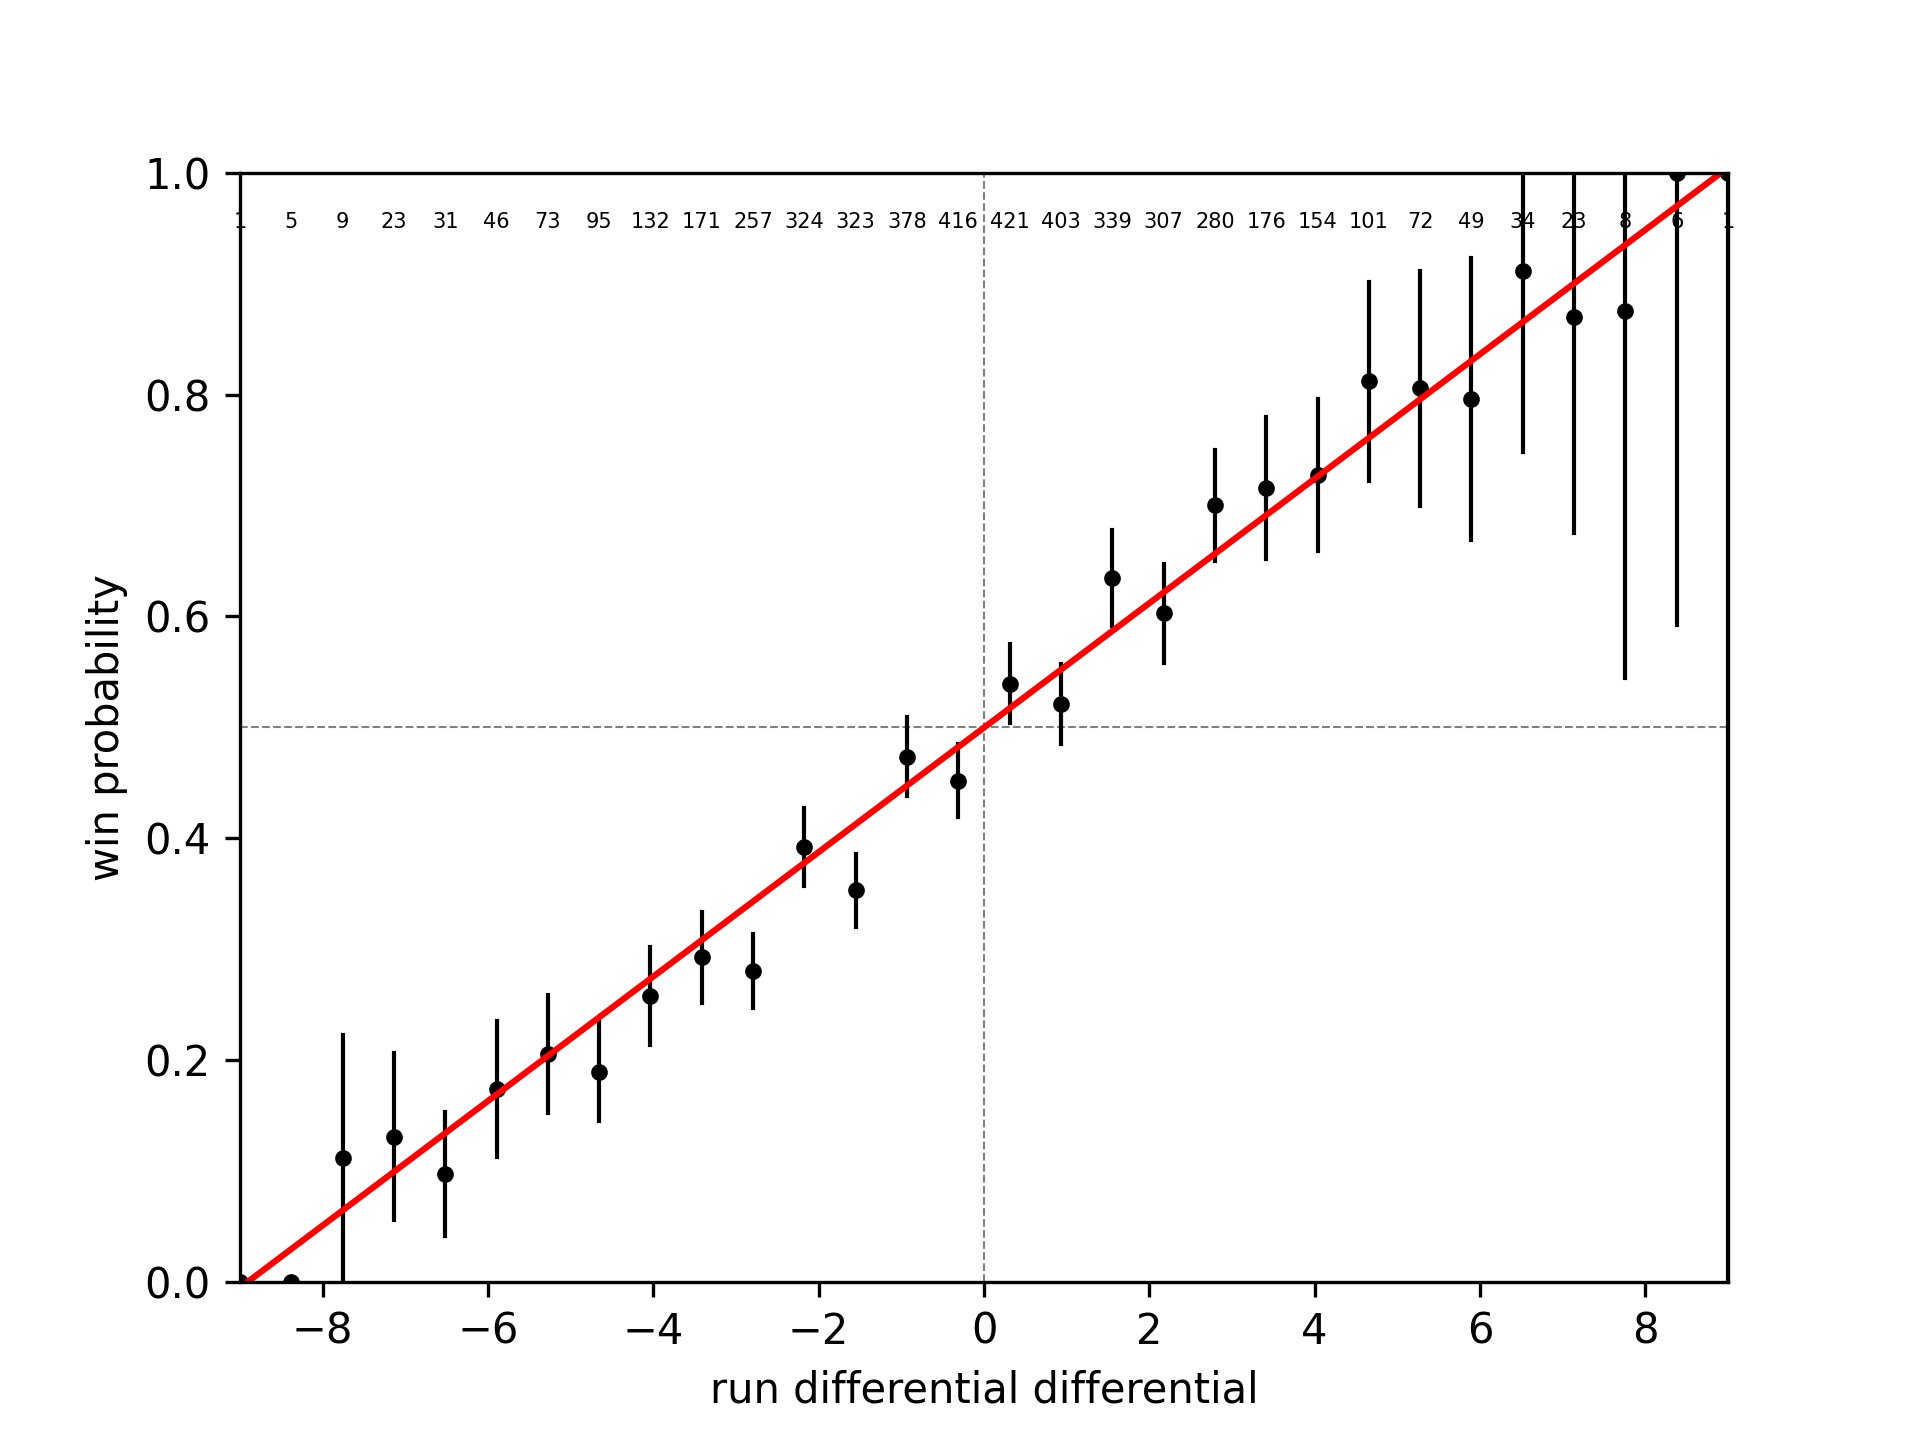
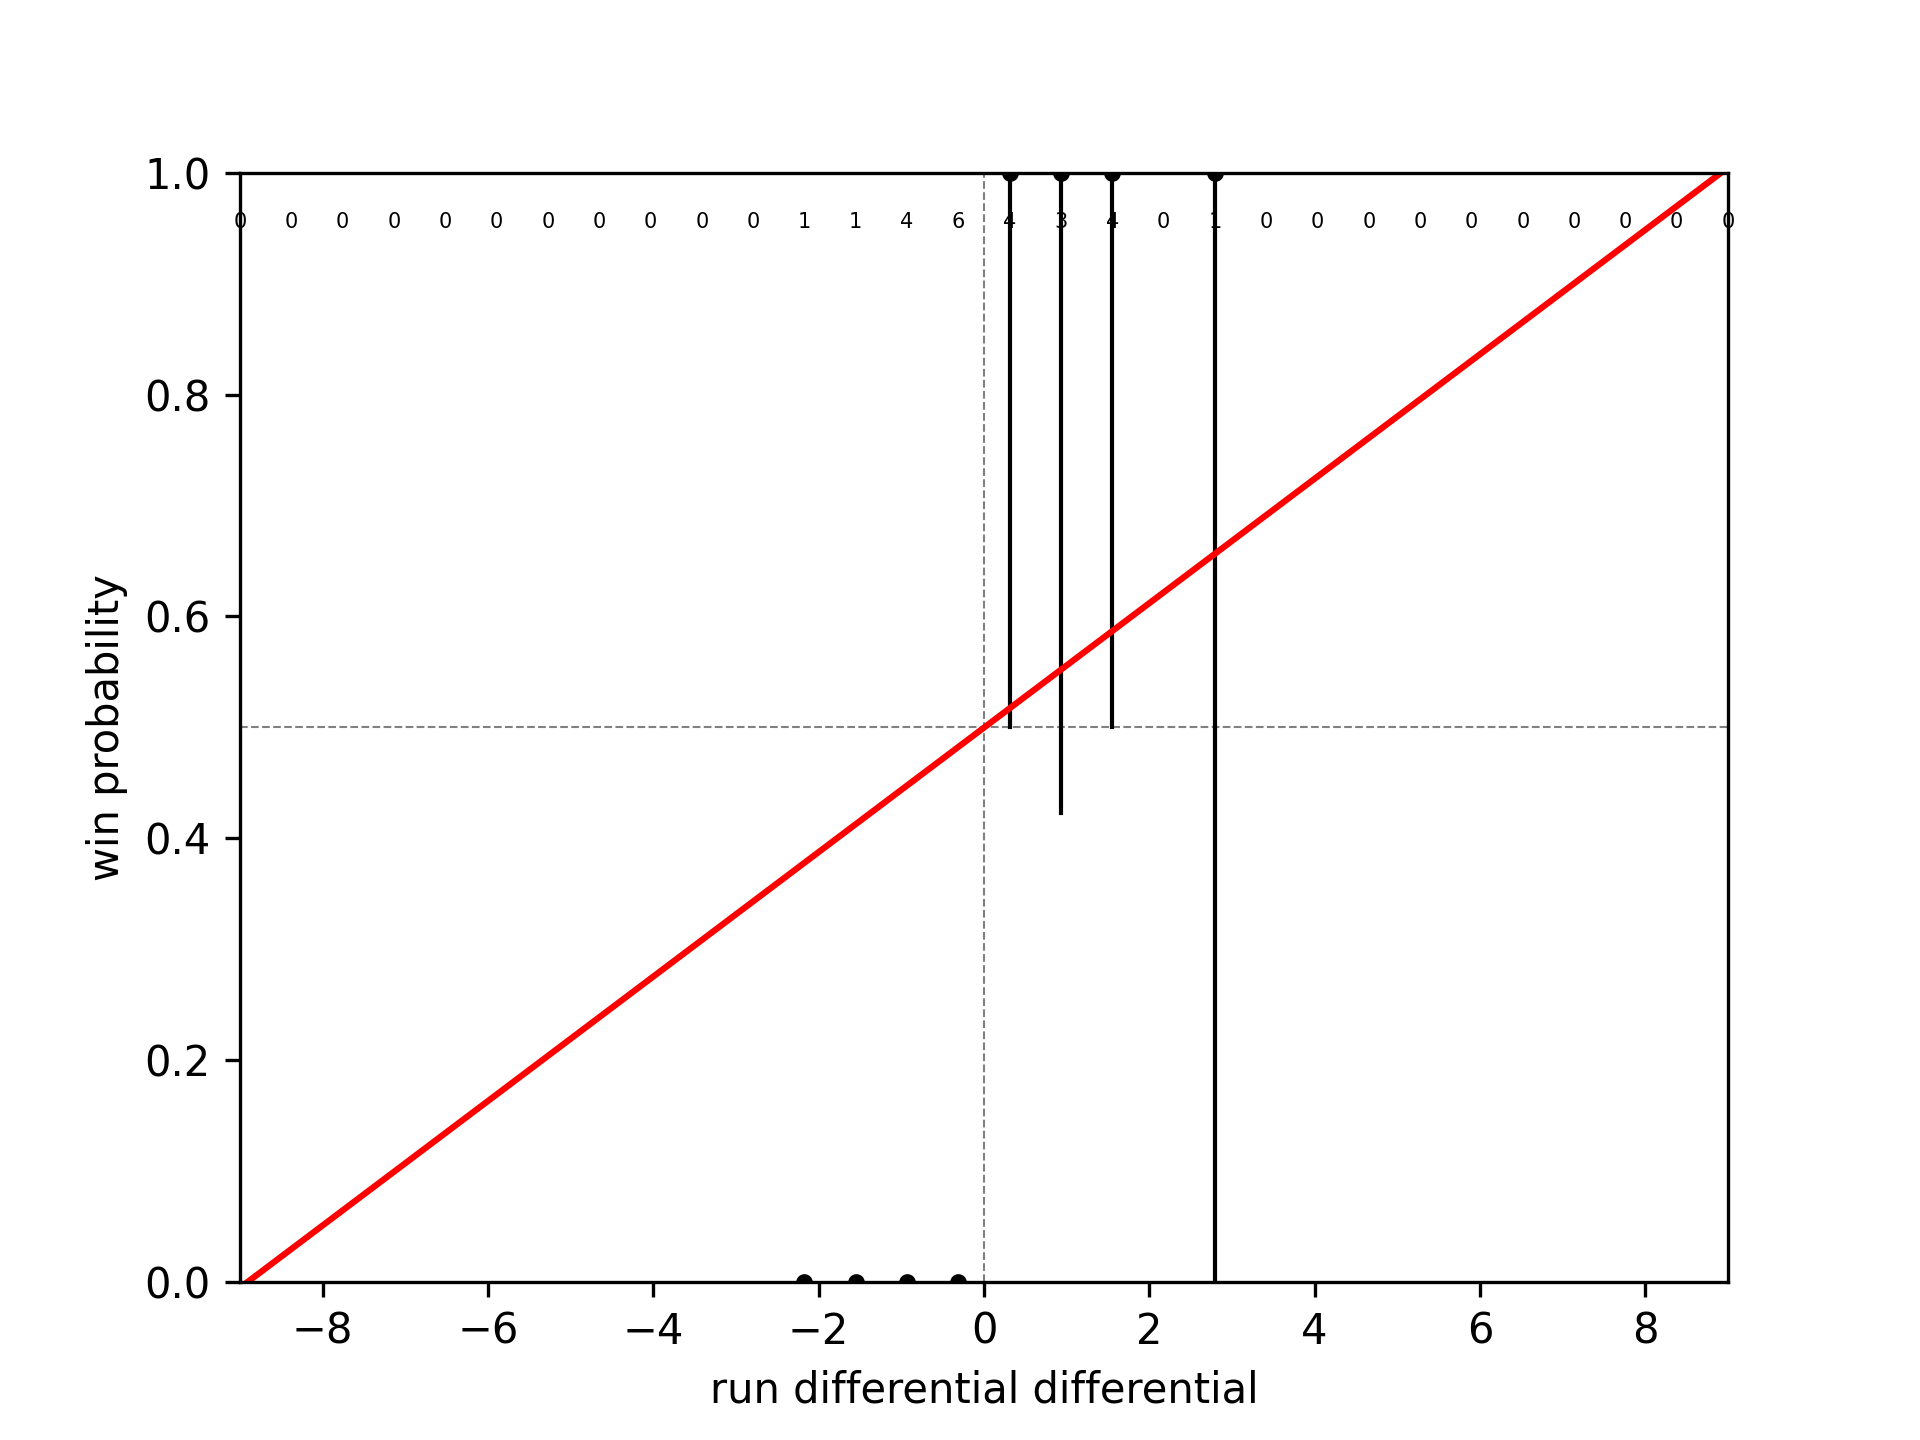
update for some small bugs

diff --git a/1outcomepredictions.py b/1outcomepredictions.py
@@ -75,6 +75,7 @@ print('date,hometeamfull,hometeamwin,hometeamscore,hometeamodds,awayteamfull,awa
 today = pd.to_datetime("today").dayofyear - 59
 today = pd.to_datetime("today").dayofyear - 54 # 2024
 today = pd.to_datetime("today").dayofyear - 52 # 2025
+today = pd.to_datetime("today").dayofyear - 51 # 2026
 yesterday = today - 1
 
 doyesterday = False
@@ -124,12 +125,14 @@ for indx in range(today,np.nanmin([today+7,maxday])):
 
         # smooth the home team's run differential
         hrundiff = np.convolve(H['rundiff'], kernel, mode='same')
-        hrunscored = np.convolve(H['runsscored'], kernel, mode='same')
+        hrunscored = np.maximum(np.convolve(H['runsscored'], kernel, mode='same'), 0) 
+        
         A = np.genfromtxt('data/{}/teams/{}.csv'.format(year,mlbteams[awayteam]),dtype=[('date', 'S10'), ('team', 'S3'), ('opponent', 'S3'), ('rundiff', '<i8'), ('runsscored', '<i8'), ('rundiffI', '<i8'), ('runsscoredI', '<i8'),('pitcher','S20'),('opppitcher','S20')],delimiter=',')
         
         # smooth the opponent's run differential
         arundiff = np.convolve(A['rundiff'], kernel, mode='same')
         arunscored = np.convolve(A['runsscored'], kernel, mode='same')
+        arunscored = np.maximum(np.convolve(A['runsscored'], kernel, mode='same'), 0) 
 
         # compute the run differential differential
         rundiffdelta = hrundiff[-1] - arundiff[-1]

diff --git a/2validatepredictions.py b/2validatepredictions.py
@@ -38,11 +38,15 @@ drd = (rdmax-rdmin)/nrd
 rundiffrange = np.linspace(rdmin,rdmax,nrd)
 winperc = np.zeros([rundiffrange.size,2])
 
-doyesterday = False
+doyesterday = True
 if doyesterday:
     for team in teams:
         T = np.genfromtxt('data/{}/teams/{}.csv'.format(year,team),dtype=[('date', 'S10'), ('team', 'S3'), ('opponent', 'S3'), ('rundiff', '<i8'), ('runsscored', '<i8'), ('rundiffI', '<i8'), ('runsscoredI', '<i8'),('pitcher','S20'),('opppitcher','S20')],delimiter=',')
         boxcar10rundiff = np.convolve(T['rundiff'], kernel, mode='same')
+        try: # check if the team has played any games yet
+            print(T['date'][-1],team)
+        except:
+            continue
         for indx,date in enumerate(T['date']):
             #if indx < 70:
             #    continue
